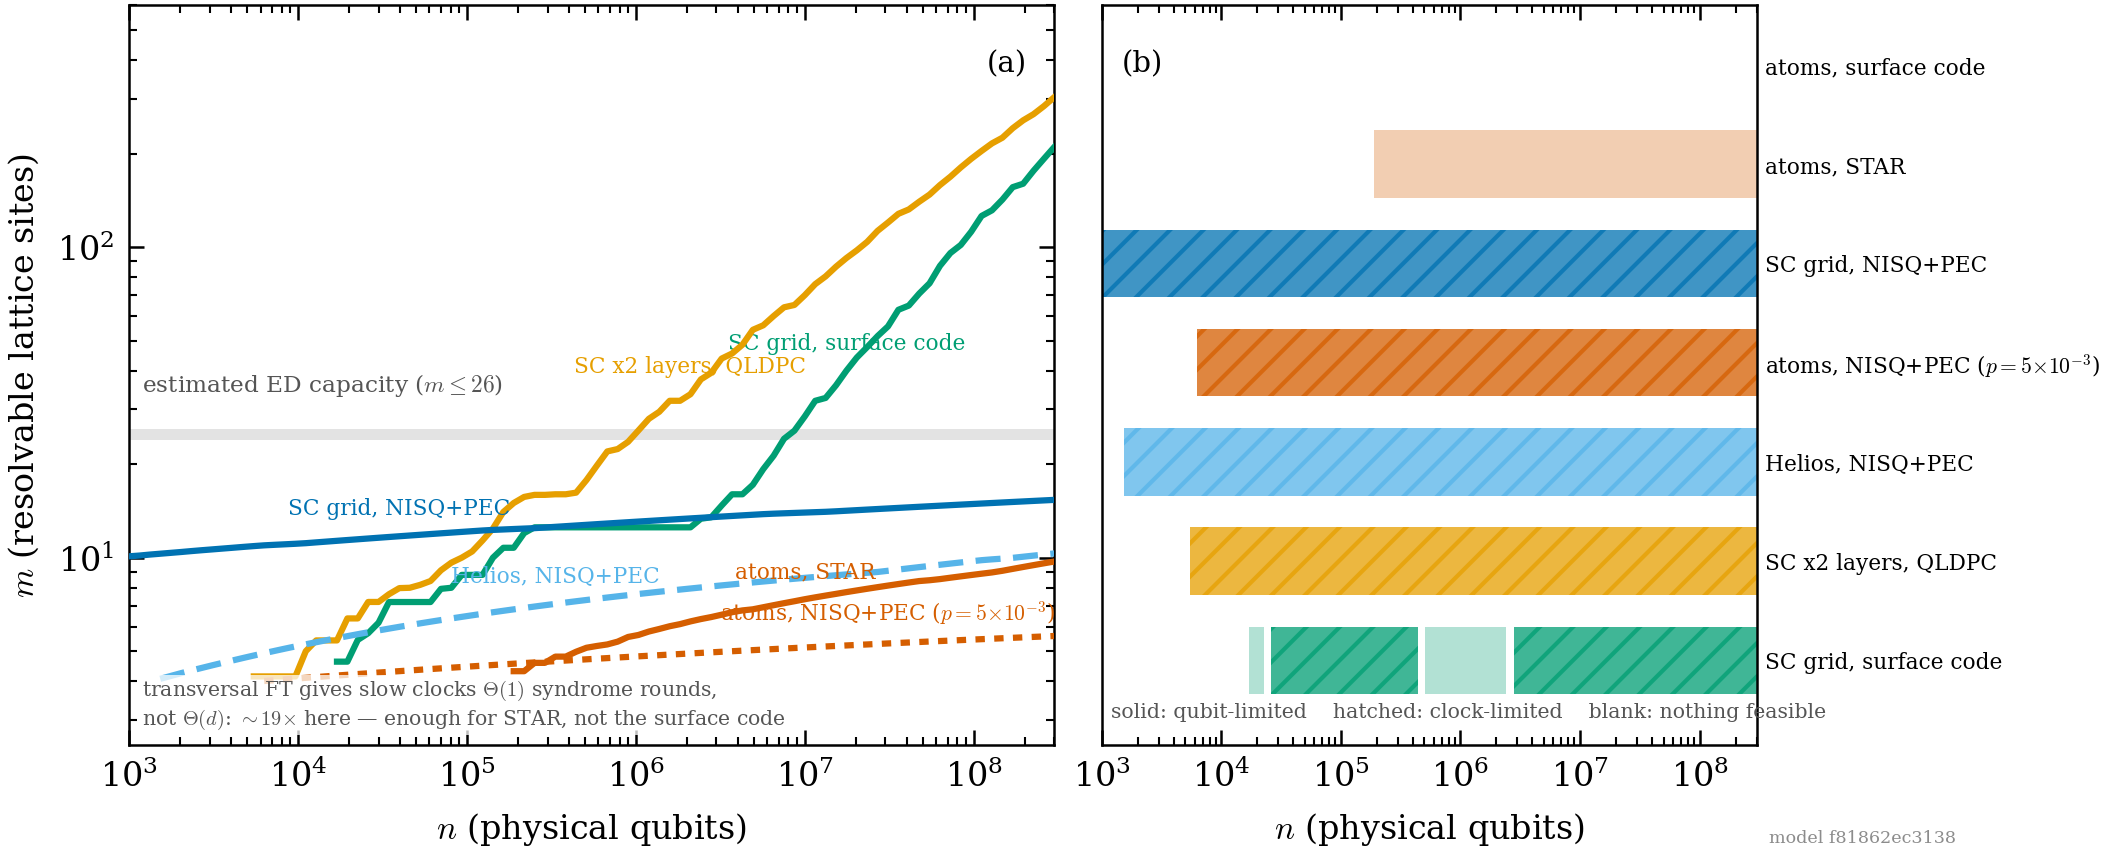
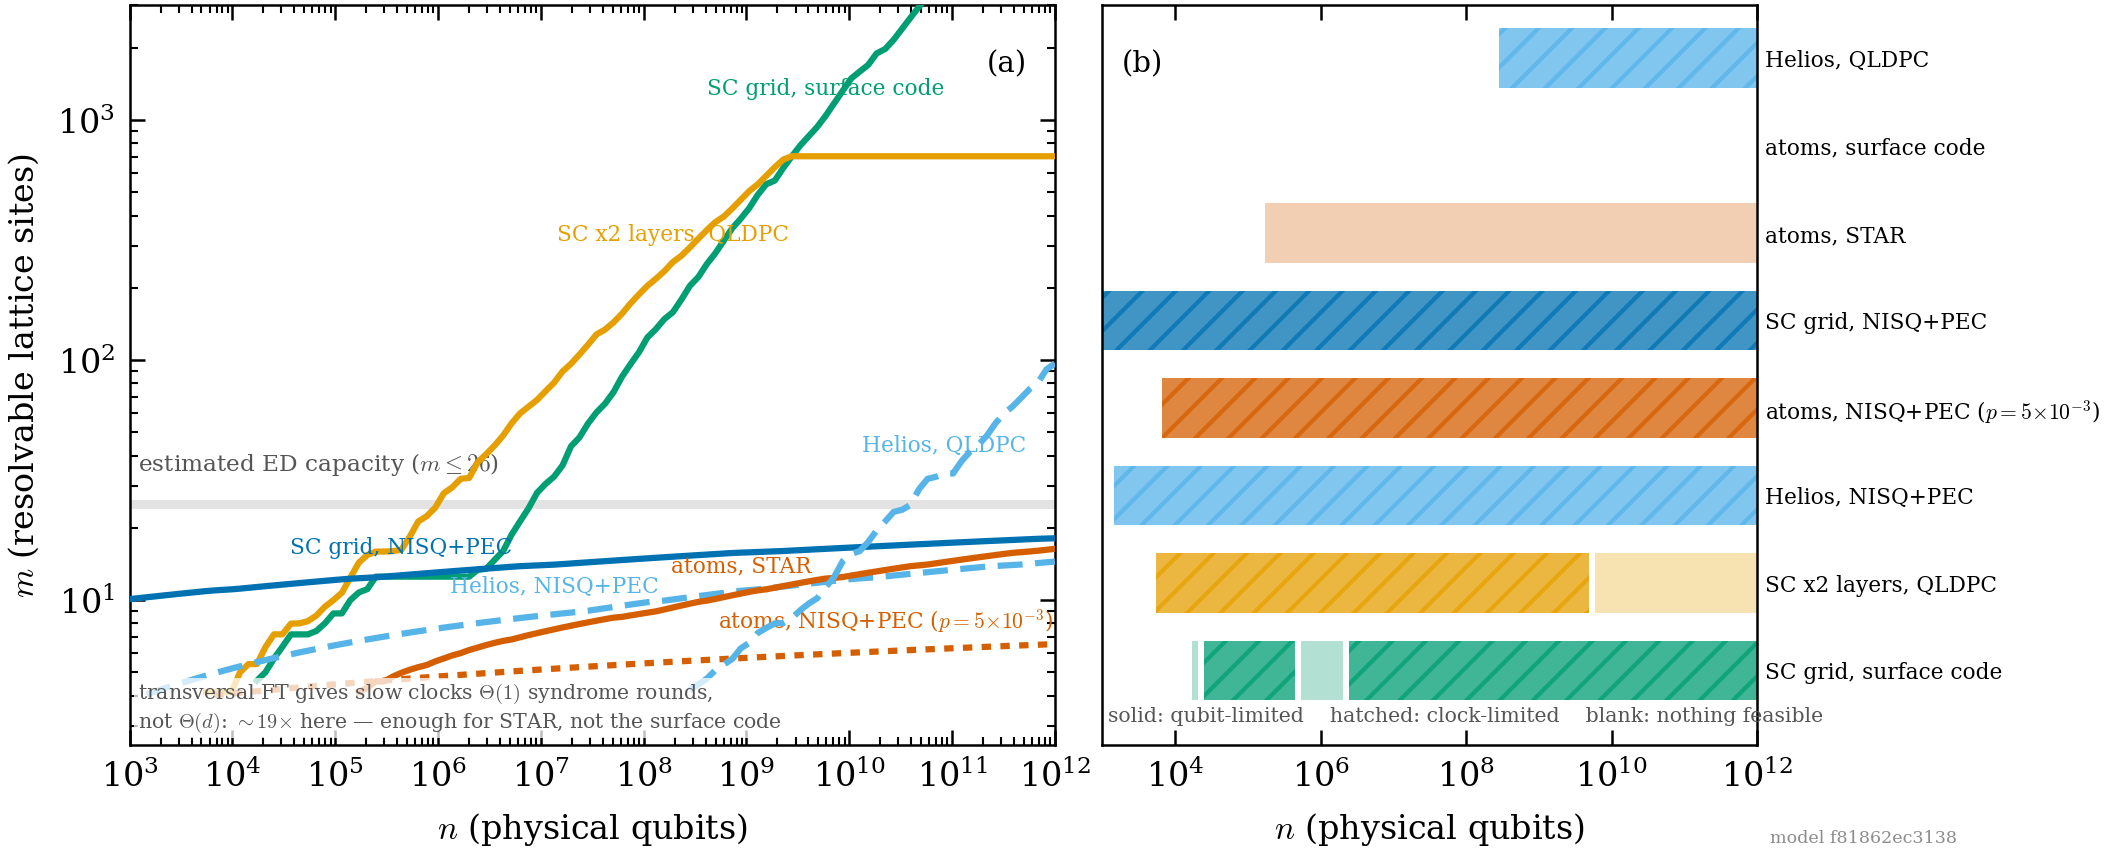
Second-pass extras: optimise the HWP batch (O13), remove pin_nonlocal
O13 closed with a NEGATIVE result. The Hamming-weight batch is now optimised
(hwp_batch = -1) and the optimum is the full batch at all 20 (regime, n) points
tested -- baseline, Willow p_L, one day, one month, eps = 0.01, p = 1e-4, and
each magic family alone. The knob is real but inert on this workload, which is
now measured rather than assumed.

The first attempt is the instructive part and is asserted so it cannot come back.
Minimising PHYSICAL QUBITS picks b = 1 and makes the arm worse: reach at n = 1e8
falls from 125 to 30. b = 1 has no workspace but seven times the T states, so the
plant delivers more slowly and the arm goes clock-bound. The objective has to be
whichever constraint binds -- qubits or the one-week clock -- not the footprint,
and surface_point now takes n so it can tell which. Costs 7x in runtime per call
(0.12 s), which is affordable.

pin_nonlocal removed. It was documented as marking an arm costed under a
different hardware assumption and was read by nothing; platform.ADMITS enforces
it for real.

Ported to the explorer and verified in the browser across all twelve variants.

diff --git a/fhcost/selftest.py b/fhcost/selftest.py
@@ -892,6 +892,37 @@ def main() -> int:
           f"observable needs {ftqc.n_shots_total(_at_opt, 12.0):.1e} shots and the "
           f"clock is paid once per shot -- Shor is one deep circuit, this is not")
 
+    # 7. O14: credit the mobile platforms with the codes they actually propose
+    _h = DEFAULT.but(platform="helios", use_platform_clock=True, encoding="jw",
+                     p=plat.HELIOS.p_2q)
+    check("high-rate qLDPC storage is ~25x better than the surface code",
+          ftqc.GB_CODES[-1][4] / ftqc.GB_CODES[-1][1]
+          < 0.05 * ftqc.storage_per_logical(25, DEFAULT),
+          f"[[510,16,24]] is {ftqc.GB_CODES[-1][4] / ftqc.GB_CODES[-1][1]:.0f} "
+          f"physical per logical against "
+          f"{ftqc.storage_per_logical(25, DEFAULT):.0f} for a d = 25 surface patch")
+    # NOT "qLDPC is what gives Helios an arm at all" -- that was wrong, and the
+    # truth is narrower. Transversal rounds already gave it a surface arm from
+    # n ~ 1e8; qLDPC only overtakes above ~1e10, because the single 4410-qubit
+    # engine and its serialised T supply dominate at small m while the surface
+    # plant parallelises.
+    _hs = {e: ftqc.max_m_surface(10.0 ** e, _h) for e in (9, 10, 12)}
+    _hq = {e: ftqc.max_m_pinnacle(10.0 ** e, _h) for e in (9, 10, 12)}
+    check("qLDPC overtakes the surface code on Helios, but only above n ~ 1e10",
+          _hq[9] < _hs[9] and _hq[12] > 1.5 * _hs[12],
+          f"surface {_hs[9]:.1f}/{_hs[10]:.1f}/{_hs[12]:.0f} against qLDPC "
+          f"{_hq[9]:.1f}/{_hq[10]:.1f}/{_hq[12]:.0f} at n = 1e9/1e10/1e12 -- the "
+          f"single engine's serialised T supply costs more than the storage saves "
+          f"until the lattice is large")
+    _a = DEFAULT.but(platform="neutral_atom", use_platform_clock=True,
+                     encoding="jw", p=plat.NEUTRAL_ATOM.p_2q)
+    check("atoms get no qLDPC arm either, and for the SAME reason as before",
+          ftqc.max_m_pinnacle(1e12, _a) == 0.0
+          and ftqc.select_engine(1e-9, _a) is None,
+          f"no magic engine is characterised at their measured "
+          f"{plat.NEUTRAL_ATOM.p_2q:.0e}; the engine table stops at 1e-3. "
+          f"Fidelity, not code choice and not clock")
+
     check("the hypothetical chip is marked as one",
           plat.SC_LONG_RANGE.n_demonstrated == 0
           and plat.HELIOS.n_demonstrated > 0,

diff --git a/OPEN_ITEMS.md b/OPEN_ITEMS.md
@@ -320,12 +320,35 @@ Helios is **clock-limited** at 55 ms/layer, which is a first-generation figure
 for a machine whose paper explicitly discusses clock speed as its main scaling
 challenge. Both arms should be re-run when either number moves.
 
-Also unmodelled: high-rate qLDPC codes with transversal gates, which is what both
-platforms actually propose for scale. We give them O(1) syndrome rounds but still
-charge them surface-code storage (2 d^2 per logical qubit). A high-rate code
-would cut the footprint substantially, and the Pinnacle arm shows what that looks
-like -- but on a machine with the right connectivity AND transversal gates, which
-is a combination the model cannot currently express.
+**O14 part two RESOLVED, and it changed the answer for Helios.** The model could
+already express the combination -- `max_m_pinnacle` on an all-to-all platform is
+high-rate qLDPC *with* transversal rounds -- it just was not being reported,
+because the figure computes the Pinnacle line on `sc_long_range` only.
+
+Crediting Helios with the codes it actually proposes -- and the answer is
+narrower than first stated:
+
+| n | Helios, surface | Helios, qLDPC |
+|---|---|---|
+| 1e9 | **9.9** | 6.5 |
+| 1e10 | 12.5 | **15.3** |
+| 1e12 | 53.7 | **96.7** |
+
+qLDPC does NOT rescue an arm that did not exist -- transversal rounds already
+gave Helios a surface arm from `n ~ 1e8`. It overtakes only above `n ~ 1e10`,
+and is worth ~1.8x by `1e12`. Below the crossover the surface code is better,
+because Pinnacle's single 4410-qubit magic engine serialises T supply while the
+surface plant parallelises: the storage saving (101 physical per logical against
+2500 for a d = 25 patch, 25x) does not pay until the lattice is large enough for
+storage to dominate.
+
+A first draft of this item asserted "0 at every n" for the surface arm and had to
+be corrected against the model; the arm is on the platform figure now with the
+crossover visible.
+
+Neutral atoms still get nothing, and for the same reason as their surface arm:
+no magic engine is characterised at their measured 5e-3, since the engine table
+stops at 1e-3. Fidelity, not code choice and not clock.
 
 ### O11. Connectivity was a caveat, not a constraint -- **CLOSED**
 `ftqc.pinnacle_point` and `METHODS.md` both pointed at an O11 that was never
